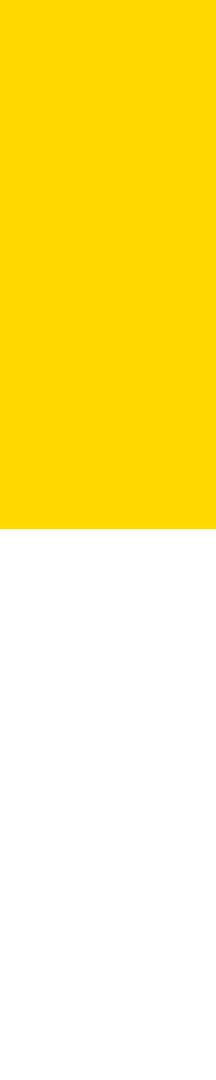
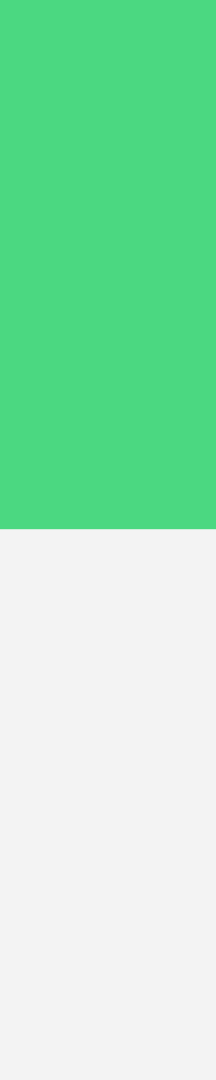
[jungleverse] - Revisions v2.2

diff --git a/jungleverse/index.html b/jungleverse/index.html
@@ -17,7 +17,7 @@
     <link href="https://cdn.jsdelivr.net/npm/bootstrap@5.0.2/dist/css/bootstrap.min.css" rel="stylesheet" integrity="sha384-EVSTQN3/azprG1Anm3QDgpJLIm9Nao0Yz1ztcQTwFspd3yD65VohhpuuCOmLASjC" crossorigin="anonymous">
 
     <!-- Self -->
-    <link rel='stylesheet' type='text/css' media='screen' href='style.css?v0.2.1'>
+    <link rel='stylesheet' type='text/css' media='screen' href='style.css?v0.2.2'>
 
 </head>
 <body>
@@ -43,7 +43,7 @@
 
     <div id="about" class="section-container section-about pb-5">
         
-        <button>Adopt Now</button>
+        <button class="adopt-now">Adopt Now</button>
     </div>
 
     <div id="usage" class="container section-container section-2 text-center cndce-section-border-bottom pb-5">
@@ -57,7 +57,7 @@
 
         <div class="row" style="text-align: left;">
             <div class="col-6">
-                <div class="welcome-text">Welcome to</div>
+                <div class="welcome-text">Welcome to the</div>
                 <div><img src="./assets/Jungleverse.svg"></div>
 
                 <div class="cndce-about-text my-5">
@@ -75,7 +75,7 @@
             
                             <p class="cndce-junglee-text mb-5">Each Junglee is an ERC 721 token that is randomly generated from over 300k possible combinations.</p>
             
-                            <a class="cndce-junglee-read-more" href="#">Read More</a>
+                            <button class="cndce-junglee-read-more">Read More</button>
         
                         </div>
                     </div>
@@ -90,7 +90,7 @@
             
                             <p class="cndce-junglee-text mb-5">With every Junglee you adopt, you will receive 500 $JUNGLE tokens, the in-game ERC20 currency that accrues 100% APR (Upto a year).</p>
             
-                            <a class="cndce-junglee-read-more" href="#">Read More</a>
+                            <button class="cndce-junglee-read-more">Read More</button>
         
                         </div>
                     </div>
@@ -178,7 +178,7 @@
             </div>
 
             <div class="py-3" style="background-color: #878ee9;" >
-                <button class="cndce-mint-get-started">Get Started</button>
+                <button class="cndce-mint-get-started">Mint Now</button>
             </div>
         </div>
 
@@ -194,6 +194,8 @@
                 <div class="cndce-about-text my-5">
                     We all love to show off our NFTs in our profile picture and that’s why we have created an avatar generator tool that will crop your Junglee to the perfect size and also allow you to add a custom background! 
                 </div>
+
+                <button>Check it out!</button>
             </div>
 
             <div class="col-6 text-center">
@@ -471,7 +473,7 @@
     <script src="https://cdn.jsdelivr.net/npm/bootstrap@5.0.2/dist/js/bootstrap.bundle.min.js" integrity="sha384-MrcW6ZMFYlzcLA8Nl+NtUVF0sA7MsXsP1UyJoMp4YLEuNSfAP+JcXn/tWtIaxVXM" crossorigin="anonymous"></script>
 
     <!-- Self -->
-    <script src='./script.js?v0.2.1'></script>
+    <script src='./script.js?v0.2.2'></script>
 
     
 </body>

diff --git a/jungleverse/style.css b/jungleverse/style.css
@@ -111,7 +111,7 @@ button:not(.accordion-button):hover{
 }
 
 .section-container{
-    min-height: 100vh;
+    /* min-height: 100vh; */
     padding-top: 6rem;
     /* padding-bottom: 3rem; */
     position: relative;
@@ -133,6 +133,13 @@ button:not(.accordion-button):hover{
     align-items: flex-end;
     justify-content: center;
 
+}
+
+.section-about .adopt-now{
+    font-size: 1.75rem;
+    padding: 1.5rem 2rem;
+    background-color: #ffda00;
+    color: #353535;
 }
 
 
@@ -186,8 +193,8 @@ button:not(.accordion-button):hover{
 }
 
 .section-2 .cndce-about-text{
-    font-size: 0.8rem;
-    line-height: 150%;
+    font-size: 1rem;
+    line-height: 190%;
 }
 
 .section-2 .cndce-about-image{
@@ -230,6 +237,8 @@ button:not(.accordion-button):hover{
 .section-2 .cndce-junglee-read-more{
     font-weight: 600;
     margin-top: auto;
+    background-color: black;
+    color: white;
 }
 
 
@@ -418,7 +427,7 @@ button:not(.accordion-button):hover{
 
 .section-roadmap .cndce-timeline-wrapper::before{
     content: "";
-    background-image: url("assets/timeline-bar.png");
+    background-image: url("assets/timeline-bar.png?green");
     background-size: 100% 100%;
     background-repeat: no-repeat;
     background-attachment: fixed;
@@ -434,7 +443,7 @@ button:not(.accordion-button):hover{
 
 .section-roadmap .cndce-timeline-item{
     display: flex;
-    align-items: center;
+    align-items: flex-start;
     margin-bottom: 2rem;
     opacity: 0.5;
 
@@ -449,7 +458,7 @@ button:not(.accordion-button):hover{
 .section-roadmap .cndce-timeline-item::before{
     content: "";
     display: block;
-    background-color: #ffed8a;
+    background-color: #4bd881;
     color: #f3cf04;
 
     flex-grow: 0;
@@ -458,7 +467,7 @@ button:not(.accordion-button):hover{
     width: 39px;
     height: 39px;
     min-height: 39px;
-    margin-top: 0px;
+    margin-top: 2rem;
     padding-top: 0px;
     border-style: solid;
     border-width: 5px;
@@ -468,15 +477,17 @@ button:not(.accordion-button):hover{
 
     margin-right: 3rem;
 
+
     transition: all 0.3s ease-in-out;
 }
 
 .section-roadmap .cndce-timeline-item:hover::before,
 .section-roadmap .cndce-timeline-item.active::before{
-    background-color: #f3cf04;
+    background-color: #4bd881;
     border-width: 5px;
     transform: scale(1.1);
-    box-shadow: 0 2px 9px 0 rgb(243 207 4 / 71%);
+    box-shadow: 0 2px 9px 0 rgb(105 223 124 / 85%);
+    
 
 }
 

diff --git a/jungleverse/script.js b/jungleverse/script.js
@@ -18,7 +18,7 @@
         Array.from(domTimelineItems).forEach(function(el){
             const pos = el.getBoundingClientRect();
 
-            if(pos.top + pos.height / 2 - window.innerHeight / 1.5 <= 0){
+            if(pos.top - window.innerHeight / 2 <= 0){
                 el.classList.add('active');
             }else{
                 el.classList.remove('active');
